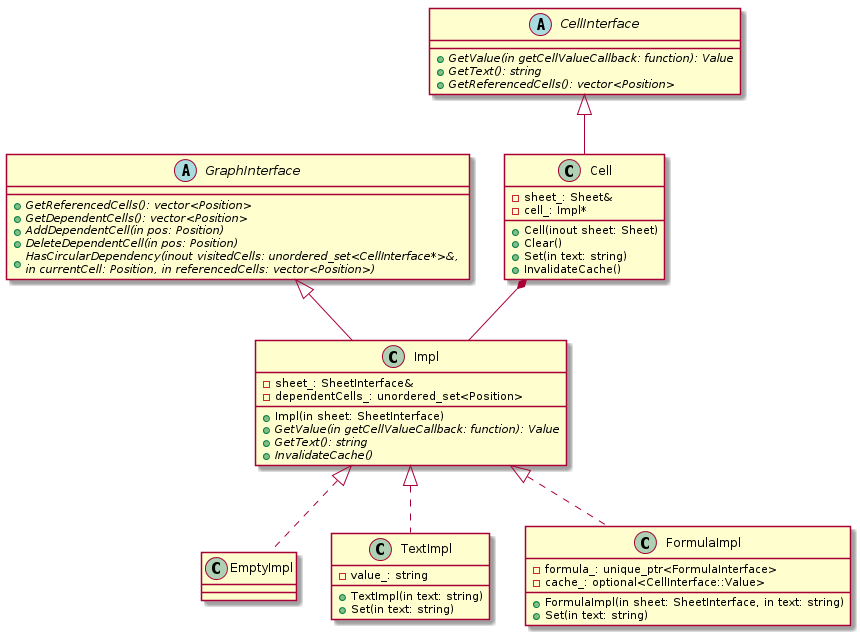
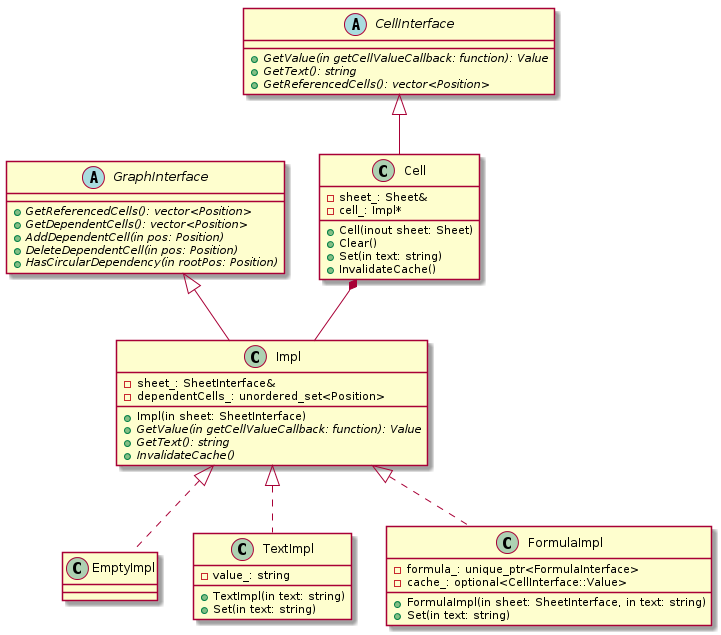
Remove recursion from HasCircularDependency

diff --git a/headers/cell.h b/headers/cell.h
@@ -21,10 +21,7 @@ class GraphInterface {
 
   // https://neerc.ifmo.ru/wiki/index.php?title=%D0%98%D1%81%D0%BF%D0%BE%D0%BB%D1%8C%D0%B7%D0%BE%D0%B2%D0%B0%D0%BD%D0%B8%D0%B5_%D0%BE%D0%B1%D1%85%D0%BE%D0%B4%D0%B0_%D0%B2_%D0%B3%D0%BB%D1%83%D0%B1%D0%B8%D0%BD%D1%83_%D0%B4%D0%BB%D1%8F_%D0%BF%D0%BE%D0%B8%D1%81%D0%BA%D0%B0_%D1%86%D0%B8%D0%BA%D0%BB%D0%B0
   // https://neerc.ifmo.ru/wiki/index.php?title=%D0%9E%D0%B1%D1%85%D0%BE%D0%B4_%D0%B2_%D0%B3%D0%BB%D1%83%D0%B1%D0%B8%D0%BD%D1%83,_%D1%86%D0%B2%D0%B5%D1%82%D0%B0_%D0%B2%D0%B5%D1%80%D1%88%D0%B8%D0%BD
-  virtual bool HasCircularDependency(
-      std::unordered_set<CellInterface*>& visitedCells,
-      const Position currentCell,
-      const std::vector<Position>& referencedCells) const = 0;
+  virtual bool HasCircularDependency(const Position rootPos) const = 0;
 };
 
 class Cell : public CellInterface {
